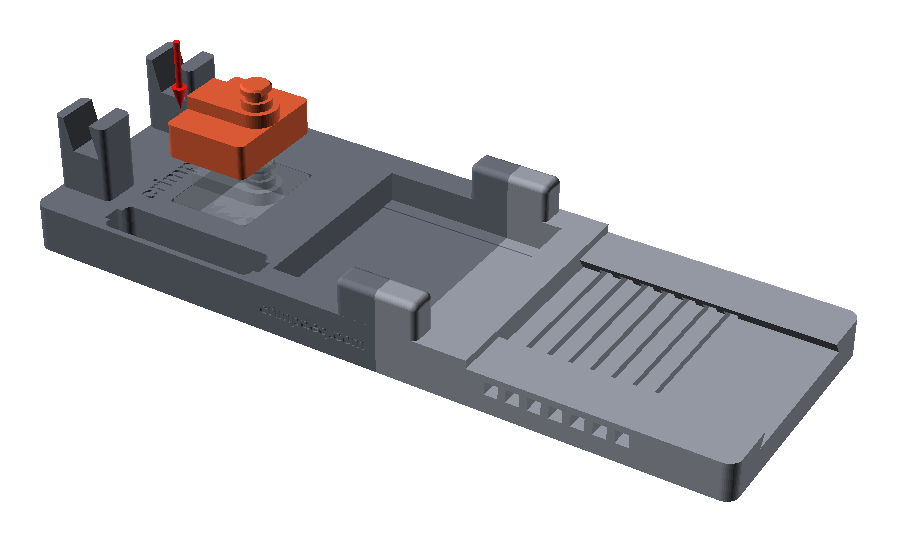
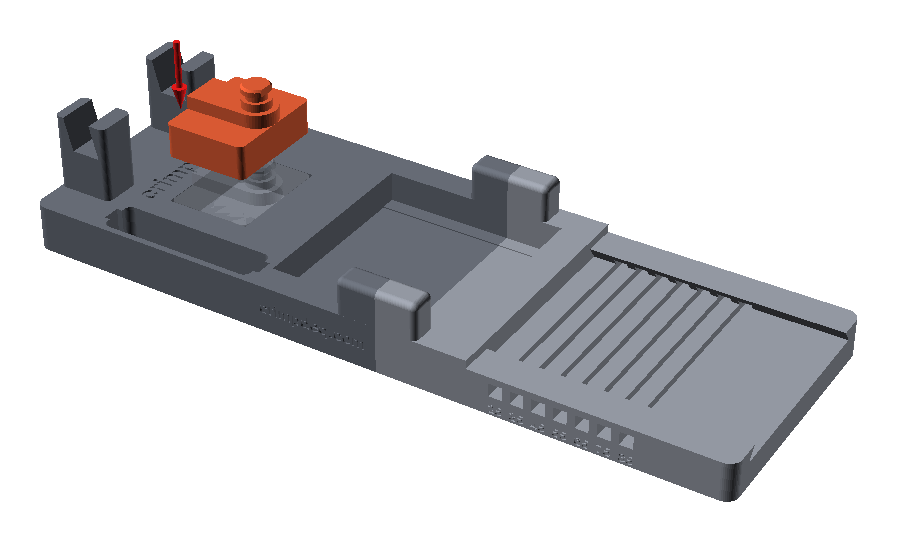
feat: engrave the hand opening under each key hole
Engrave 25-85 on both side faces of the rear base half, under each key
hole and below the key head, so the fitted key shows its setting from
either side. The side engraving is shared with the brand.

Changed region(s): [[0.5307, 0.4428, 0.9677, 0.738], [0.5307, 0.7085, 0.7179, 0.8266], [0.8428, 0.797, 0.874, 0.8266]]

diff --git a/docs/src/build/assembly.md b/docs/src/build/assembly.md
@@ -52,10 +52,11 @@ key, tip first, into the side of the base, through the groove under the
 bolster, until its head meets the base. It fits from either side, with its
 head pointing away from the grip.
 
-The seven key holes along each side, counted from the grip, set the opening
-between the finger lip and the palm face: 25 to 85 mm in 10 mm steps. To
-change it, pull the key out by its head, slide the rest until its groove
-lines up with the new hole, and push the key in again.
+The seven key holes along each side set the opening between the finger lip
+and the palm face: 25 to 85 mm in 10 mm steps, engraved under each hole and
+read below the key's head. To change it, pull the key out by its head, slide
+the rest until its groove lines up with the new hole, and push the key in
+again.
 
 ## 6. Stoppers and phone
 
